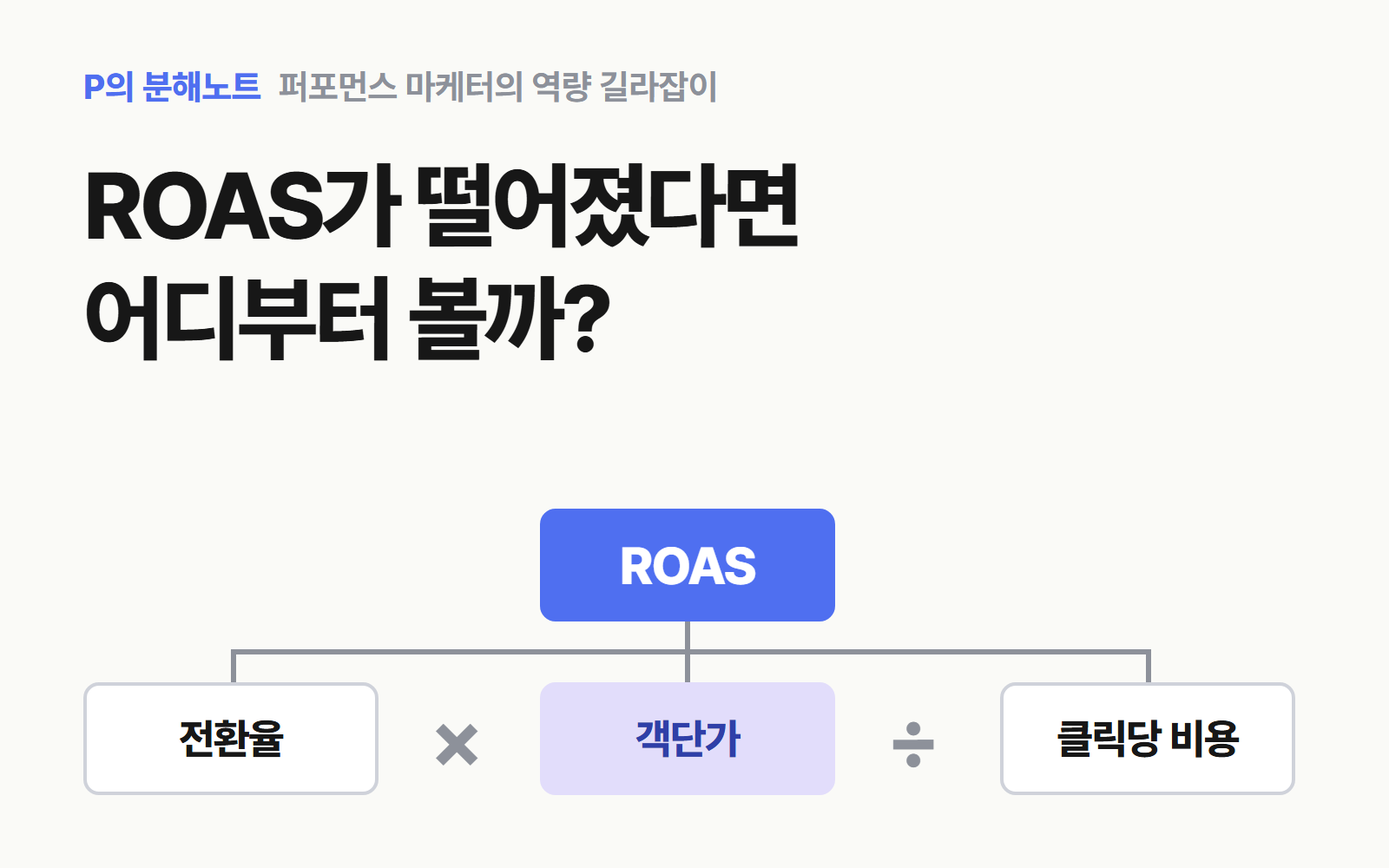
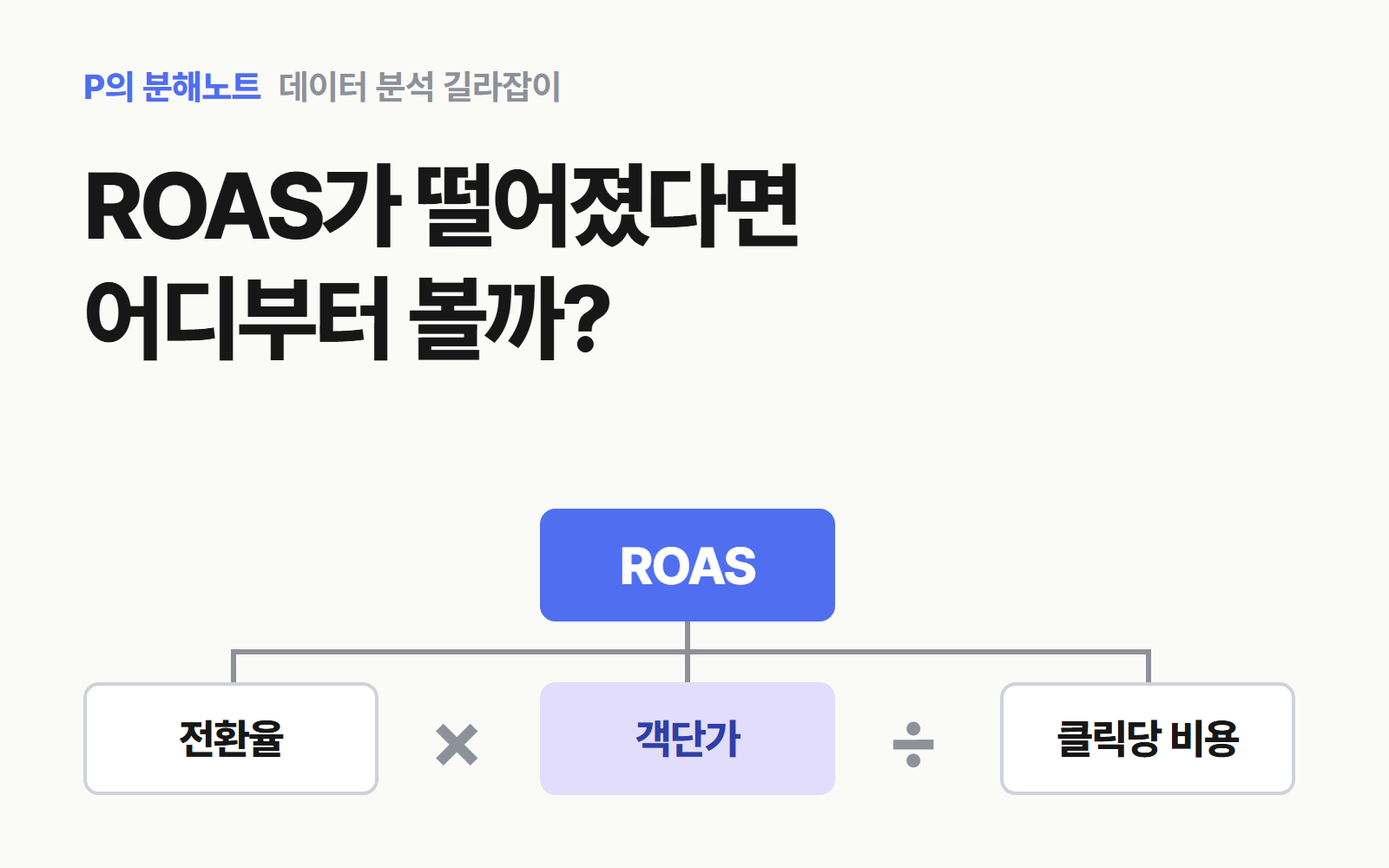
데이터 분석 길라잡이 그룹, 카테고리 그룹 표시, 분석 그림 추가
- 시리즈 s4 데이터 분석 길라잡이, 목록·카테고리 공통 SeriesGroups
- 데이터 분석 기본 편에 그림 3장, 중급·고급 초안(draft)과 그림 13장
- 데이터 분석 3편 표지

Changed region(s): [[0.1875, 0.062, 0.5312, 0.124]]

diff --git a/src/site.ts b/src/site.ts
@@ -30,7 +30,8 @@ export const SERIES_TITLE = '퍼포먼스 마케팅 쪼개 보기';
 export const SERIES = [
   { key: 's1', name: '퍼포먼스 마케팅 길라잡이', desc: '퍼포먼스 마케팅의 정의부터 인하우스와 대행사의 역할, AI 이후의 업무, 첫 실습까지 살펴봅니다.' },
   { key: 's2', name: '광고 시장과 성과 측정 길라잡이', desc: '광고 한 건이 어떻게 거래되는지, 광고와 측정 기술이 어떻게 바뀌었는지, GA4와 광고 매체의 전환 수가 왜 다른지 살펴봅니다.' },
-  { key: 's3', name: '퍼포먼스 마케터의 역량 길라잡이', desc: '데이터 분석, 매체 이해, 기획과 검증, 커뮤니케이션, 사업 이해를 기본 개념부터 실무 판단까지 쪼개 봅니다.' },
+  { key: 's3', name: '퍼포먼스 마케터의 역량 길라잡이', desc: '매체 이해, 기획과 검증, 커뮤니케이션, 사업 이해를 기본 개념부터 실무 판단까지 쪼개 봅니다.' },
+  { key: 's4', name: '데이터 분석 길라잡이', desc: '지표를 쪼개는 기본부터 퍼널·코호트 같은 중급, 광고의 증분을 재는 고급 분석까지 단계별로 살펴봅니다.' },
 ] as const;
 
 export const tagSlug = (t: string) => encodeURIComponent(t.replace(/\s+/g, '-'));

diff --git a/src/content/posts/marketer-data-analysis-advanced.md b/src/content/posts/marketer-data-analysis-advanced.md
@@ -1,0 +1,144 @@
+---
+title: "퍼포먼스 마케터의 데이터 분석 고급, 광고가 없었다면 어땠을지 재는 다섯 가지 방법"
+answer: "고급 데이터 분석은 '광고가 없었다면 어땠을까'에 답하는 단계다. 홀드아웃 실험, 지역 실험, 이중차분, 미디어 믹스 모델링, 고객 가치 예측을 쓰면 광고가 새로 만든 성과와 예산의 다음 한 걸음을 추정할 수 있다."
+cover: "/covers/marketer-data-analysis-advanced.png"
+date: 2026-11-19
+category: Marketing
+tags: ["P의 분해노트", "데이터 분석", "증분 측정", "MMM"]
+series: s4
+part: 3
+draft: true
+---
+
+<!--
+[초안 메모 — 발행 전 지울 것]
+- 데이터 분석 길라잡이 3부작 중 고급. 증분 측정 기본 개념은 GA4·매체 전환 수 글에 있으니 여기서는 방법별로 깊게
+- 각 분석법은 무엇 → 왜 → 언제 → 어떻게 → 그다음 순서
+- 도구 이름(Meridian, Robyn, GeoLift)은 발행 전 공식 페이지에서 현재 상태 다시 확인
+- 숫자는 모두 설명용 예시
+-->
+
+[중급 편](/posts/marketer-data-analysis-intermediate)까지는 이미 일어난 숫자를 잘 쪼개는 방법이었습니다. 하지만 쪼개기만으로는 답할 수 없는 질문이 있습니다. **"이 광고가 없었어도 그만큼 팔렸을까?"** 고급 분석은 이 질문, 즉 광고가 **새로 만든 몫(증분)**을 재는 방법들입니다.
+
+이 글도 같은 순서로 정리했습니다. **무엇 → 왜 → 언제 → 어떻게 → 그다음.**
+
+고급이라고 해서 모두 직접 계산할 필요는 없습니다. 퍼포먼스 마케터에게 더 중요한 건 **어떤 질문에 어떤 방법이 맞는지 고르고, 결과를 어디까지 믿을지 판단하는 힘**입니다.
+
+![고급 분석 다섯 가지와 각 방법이 답하는 질문](/posts/data-analysis/adv-summary.png)
+
+<!-- [P] 매체 화면 숫자와 실제 매출 사이에서 "이게 진짜 광고 덕분인가" 고민했던 장면. (광고주 가명) -->
+
+## 1. 홀드아웃 실험: 일부러 광고를 보여 주지 않는다
+
+- **무엇**: 광고를 볼 수 있는 사람 중 일부를 무작위로 떼어 **광고를 보여 주지 않고**, 본 쪽과 안 본 쪽의 구매를 비교하는 방법입니다. 매체의 전환 리프트(Conversion Lift) 같은 기능이 이 방식입니다.
+- **왜**: 리타겟팅처럼 "어차피 살 사람"에게 가는 광고는 ROAS가 높게 나옵니다. 본 쪽과 안 본 쪽을 비교해야 광고가 **더한** 구매만 남습니다.
+- **언제**: 리타겟팅·브랜드 검색처럼 효율이 너무 좋아 보이는 광고를 검증할 때, 큰 예산을 유지할지 정할 때.
+- **어떻게**: 매체가 사람을 무작위로 나누고 결과를 계산해 줍니다. 마케터가 정할 것은 기간, 떼어 둘 비율, 판정 지표입니다. 전환 수가 충분해야 결과가 나오므로, 작은 계정에서는 매체가 실험을 거절하거나 결과가 "판단 불가"로 나오기도 합니다.
+
+> **예시.** 리타겟팅 광고의 매체 ROAS는 800%였습니다. 홀드아웃 실험을 해 보니 광고를 본 쪽의 구매가 안 본 쪽보다 15% 많았고, 이 차이로 다시 계산한 **증분 ROAS는 약 120%**였습니다. 매체 화면의 800% 대부분은 광고가 없어도 일어났을 구매였던 셈입니다. (설명을 위한 예시 숫자)
+
+![광고 안 본 쪽 구매 100, 본 쪽 115. 매체 화면 ROAS 800%가 증분으로 다시 계산하면 약 120%](/posts/data-analysis/adv-holdout.png)
+
+- **그다음**: 증분 ROAS가 손익분기보다 낮다면 예산을 줄이거나, 대상(최근 방문자만, 장바구니 이탈자만)을 좁혀 다시 실험합니다. 결과는 **"매체 ROAS를 증분으로 바꾸는 비율"**로 기록해 두면 이후 보고에 계속 쓸 수 있습니다.
+
+## 2. 지역 실험: 사람이 아니라 지역을 나눈다
+
+- **무엇**: 비슷한 지역들을 둘로 나눠 **한쪽에서만 광고를 늘리거나 끄고**, 두 쪽의 매출 차이를 보는 방법입니다.
+- **왜**: 사람 단위로 나누기 어려운 광고(TV, 옥외, 여러 매체를 한꺼번에 바꾸는 경우)나 매체가 홀드아웃 기능을 주지 않을 때도 증분을 잴 수 있습니다. 매출을 주문 데이터에서 직접 보므로 매체 추적의 한계도 덜 받습니다.
+- **언제**: 새 매체를 시험할 때, 예산을 크게 늘리기 전, 여러 매체를 묶은 캠페인의 효과를 볼 때.
+- **어떻게**: 과거 매출 흐름이 비슷한 지역끼리 짝을 지어 나눕니다. 실험 기간 동안 광고 지역의 매출이 **"광고가 없었다면 이랬을 것"**이라는 예측선보다 얼마나 높았는지 봅니다. 메타가 공개한 GeoLift 같은 오픈소스 도구가 이 계산을 돕습니다.
+![광고 시작 뒤 실제 매출선이 광고가 없었다면의 예측선보다 높아진 만큼이 증분](/posts/data-analysis/adv-geo.png)
+
+- **그다음**: 증분이 확인되면 그 매체를 전국으로 넓히고, 확인되지 않으면 소재나 타깃을 바꿔 다시 시험하거나 예산을 다른 곳으로 돌립니다. 한국처럼 수도권 비중이 큰 시장에서는 **지역끼리 비슷하게 나누기가 어렵다**는 점을 결과 해석에 꼭 적어 둡니다.
+
+## 3. 이중차분: 전후 비교에 비교 대상을 붙인다
+
+- **무엇**: 광고를 바꾼 쪽의 **전후 변화**에서, 바꾸지 않은 쪽의 **같은 기간 변화**를 빼는 방법입니다.
+- **왜**: 단순 전후 비교는 시즌, 경기, 경쟁사 행사의 영향까지 광고 효과로 셉니다. 비교 대상의 변화를 빼면 "그 기간에 원래 일어났을 변화"를 걷어 낼 수 있습니다.
+- **언제**: 실험을 미리 설계하지 못했지만, 바꾼 쪽과 바꾸지 않은 쪽이 자연스럽게 나뉘어 있을 때. 예를 들어 한 지역에서만 행사를 했거나, 한 카테고리에만 광고를 늘렸을 때.
+- **어떻게**:
+
+| | 바꾸기 전 | 바꾼 뒤 | 변화 |
+|---|---|---|---|
+| 광고를 늘린 카테고리 | 100 | 130 | +30 |
+| 그대로 둔 카테고리 | 100 | 110 | +10 |
+| **광고로 늘었다고 볼 몫** | | | **+20** |
+
+(매출 지수, 설명을 위한 예시 숫자)
+
+전후만 보면 30이 늘었지만, 그대로 둔 쪽도 10이 늘었으니 광고 몫은 20으로 봅니다. 단, **두 쪽이 원래 비슷하게 움직여 왔다**는 전제가 필요합니다. 바꾸기 전 몇 주의 흐름을 같이 그려 확인합니다.
+
+![광고 늘린 쪽 100에서 130, 그대로 둔 쪽 100에서 110. 차이 20이 광고 몫](/posts/data-analysis/adv-did.png)
+
+- **그다음**: 결과를 "약 20% 증분, 단 두 카테고리의 시즌 차이는 통제하지 못함"처럼 **한계와 함께** 보고합니다. 중요한 결정이라면 다음번에는 지역 실험으로 다시 확인합니다.
+
+## 4. 미디어 믹스 모델링(MMM): 매체별 기여와 포화를 추정한다
+
+- **무엇**: 몇 년치 주간 매출과 매체별 광고비, 시즌, 가격, 행사 같은 요인을 함께 넣어 **"각 매체가 매출에 얼마나 기여했는지"**와 **"돈을 더 넣으면 얼마나 더 나올지"**를 통계 모델로 추정하는 방법입니다.
+- **왜**: 실험은 정확하지만 한 번에 한 질문만 답합니다. MMM은 모든 매체를 한꺼번에 보고, 쿠키나 클릭 추적 없이 **광고비와 매출만으로** 추정하므로 개인정보 제약을 덜 받습니다.
+- **언제**: 여러 매체에 큰 예산을 나눠 쓸 때, 연간·분기 예산을 짤 때, TV·옥외처럼 클릭이 없는 매체가 섞여 있을 때.
+- **어떻게**: 두 가지 개념이 핵심입니다.
+  - **잔상 효과**: 오늘 본 광고가 며칠~몇 주 뒤 구매에도 영향을 줍니다.
+  - **포화**: 같은 매체에 돈을 더 넣을수록 늘어나는 매출이 줄어듭니다. ([매체 이해 편](/posts/marketer-media-understanding)의 곡선)
+
+  구글의 Meridian, 메타의 Robyn 같은 오픈소스 도구가 있지만, 보통 **2년 이상의 주간 데이터**와 통계를 다룰 사람이 필요합니다.
+![매체별 포화 곡선. 검색은 일찍 평평해지고 소셜은 더 올라갈 여지가 있음](/posts/data-analysis/adv-mmm.png)
+
+- **그다음**: 매체별 **"다음 1억 원을 넣으면 늘어날 매출"** 곡선을 보고 예산을 다시 나눕니다. MMM 결과는 추정치이므로, 크게 바꿀 매체는 지역 실험으로 한 번 더 확인하는 식으로 **실험과 모델을 번갈아** 씁니다.
+
+## 5. 고객 가치 예측과 RFM: 앞으로 남길 돈으로 고객을 나눈다
+
+- **무엇**: 고객을 **최근 구매(Recency), 구매 빈도(Frequency), 구매 금액(Monetary)**으로 나누거나(RFM), 과거 행동으로 **앞으로의 구매 가치(예측 LTV)**를 추정하는 방법입니다.
+- **왜**: 모든 고객에게 같은 목표 CPA를 쓰면, 오래 남을 고객을 데려오는 캠페인이 손해처럼 보이고, 한 번 사고 끝날 고객에게 돈을 더 씁니다.
+- **언제**: 재구매가 중요한 업종, 신규 고객 목표 CPA를 고객 가치로 정하고 싶을 때, 매체에 가치 기반 입찰(구매 가치나 예측 가치를 넘기는 방식)을 쓰고 싶을 때.
+- **어떻게**: RFM은 스프레드시트로도 됩니다. 고객별 마지막 구매일, 구매 횟수, 총 구매 금액을 구해 각각 3~5등급으로 나누면 됩니다. 예측 LTV는 코호트 데이터([중급 편](/posts/marketer-data-analysis-intermediate)) 위에 통계 모델을 쓰는데, 처음에는 **"첫 구매 금액·상품별 평균 재구매율"** 정도의 간단한 규칙으로 시작해도 충분합니다.
+
+| 등급 예시 | 특징 | 광고에서 할 일 |
+|---|---|---|
+| 최근에 자주, 많이 산 고객 | 가장 가치가 큼 | 비슷한 사람 찾기(유사 타깃)의 씨앗으로 |
+| 예전엔 자주 샀지만 뜸해진 고객 | 이탈 위험 | 재방문 유도 메시지 |
+| 한 번 사고 끝난 고객 | 가치 낮음 | 광고비 줄이기, 리타겟팅 제외 검토 |
+
+![RFM 등급 예시: 최근·자주·많이 산 고객은 유사 타깃 씨앗, 뜸해진 고객은 재방문 메시지, 한 번 사고 끝난 고객은 광고비 줄이기](/posts/data-analysis/adv-rfm.png)
+
+- **그다음**: 등급별 가치를 매체에 넘기거나(가치 기반 입찰), 가치가 높은 고객과 닮은 사람을 찾게 해 **신규 유입의 질**을 올립니다. 목표 CPA를 고객 가치로 다시 계산하는 법은 [사업 이해 편](/posts/marketer-business-sense)에 있습니다.
+
+## 다섯 가지를 언제 꺼낼까?
+
+| 질문 | 맞는 방법 | 필요한 것 |
+|---|---|---|
+| 이 광고, 없어도 팔렸을까? | 1. 홀드아웃 실험 | 매체의 실험 기능, 충분한 전환 수 |
+| 새 매체, 전국으로 넓혀도 될까? | 2. 지역 실험 | 지역별 매출 데이터, 몇 주의 기간 |
+| 이미 바꿨는데, 효과가 있었나? | 3. 이중차분 | 바꾸지 않은 비교 대상 |
+| 내년 예산, 매체별로 어떻게 나눌까? | 4. MMM | 2년 이상 주간 데이터, 분석 인력 |
+| 어떤 고객에게 더 써야 할까? | 5. 고객 가치 예측·RFM | 고객별 주문 기록 |
+
+## 결과를 어디까지 믿을까?
+
+고급 분석일수록 결과가 그럴듯해 보여서 더 조심해야 합니다.
+
+- **추정은 범위로 말한다**: "증분 ROAS 120%"보다 "90~150% 사이로 추정"이 정직합니다.
+- **전제를 함께 적는다**: 지역이 비슷했는지, 그 기간에 다른 행사는 없었는지.
+- **방법끼리 맞춰 본다**: 실험과 MMM, 매체 숫자가 같은 방향을 가리키는지. 서로 크게 다르면 어느 한쪽의 전제가 틀렸을 가능성이 큽니다.
+
+이 판단을 결정하는 사람에게 전하는 법은 [커뮤니케이션 편](/posts/marketer-communication)의 "확실한 것과 모르는 것을 나눠 말하기"와 이어집니다.
+
+## 자주 하는 실수
+
+- **작은 계정에 큰 방법을 쓴다**: 전환이 적으면 실험도 모델도 "판단 불가"가 나옵니다. 먼저 중급 분석으로 충분한지 봅니다.
+- **한 번의 결과를 영원히 쓴다**: 시장과 소재가 바뀌면 증분도 바뀝니다. 중요한 광고는 분기나 반기마다 다시 확인합니다.
+- **모델 결과를 정답처럼 보고한다**: MMM은 추정입니다. 한계와 함께, 실험으로 확인할 계획을 같이 냅니다.
+
+## 혼자 연습하는 법
+
+공개 데이터로도 연습할 수 있습니다. Meridian과 Robyn은 **예제 데이터와 따라 하기 문서**를 함께 공개하고 있어, 코드를 실행해 보며 잔상 효과와 포화 곡선이 어떻게 나오는지 볼 수 있습니다. 코드가 부담스럽다면 위의 이중차분 표처럼 **"바꾼 쪽과 안 바꾼 쪽"**을 스스로 찾아, 자기 블로그나 가상 쇼핑몰 데이터로 계산해 보는 것부터 시작해도 좋습니다.
+
+<!-- [P] 증분을 확인하고 예산을 바꿨거나, 바꾸지 못했던 경험. (광고주 가명, 숫자는 %나 지수로) -->
+
+## 데이터 분석 길라잡이를 마치며
+
+기본은 **어디서 움직였는지**, 중급은 **무엇이 얼마나 움직였는지**, 고급은 **광고가 없었다면 어땠을지**를 묻습니다. 단계가 올라갈수록 계산보다 **질문을 고르고 결과의 한계를 말하는 힘**이 더 중요해집니다.
+
+처음부터 다시 보고 싶다면 여기서 시작하면 됩니다.
+
+→ [퍼포먼스 마케터의 데이터 분석 기본](/posts/marketer-data-analysis)

diff --git a/src/content/posts/marketer-data-analysis-intermediate.md b/src/content/posts/marketer-data-analysis-intermediate.md
@@ -1,0 +1,154 @@
+---
+title: "퍼포먼스 마케터의 데이터 분석 중급, 변화를 쪼개고 흐름을 따라가는 여섯 가지 방법"
+answer: "중급 데이터 분석은 숫자가 왜 움직였는지를 더 정확히 가르는 단계다. 변화량 분해, 비중과 성과 분리, 퍼널, 코호트, 평소 범위, 테스트 결과 해석을 쓰면 '무엇이 얼마나' 바뀌었는지까지 말할 수 있다."
+cover: "/covers/marketer-data-analysis-intermediate.png"
+date: 2026-11-19
+category: Marketing
+tags: ["P의 분해노트", "데이터 분석", "퍼널 분석", "코호트 분석"]
+series: s4
+part: 2
+draft: true
+---
+
+<!--
+[초안 메모 — 발행 전 지울 것]
+- 역량 길라잡이 / 데이터 분석 3부작 중 중급. 기본 편(marketer-data-analysis)의 심화 1~4를 발행할 때 이 글로 옮기고, 기본 편에는 링크만 남길 것
+- 각 분석법은 무엇 → 왜 → 언제 → 어떻게 → 그다음 순서
+- 숫자는 모두 설명용 예시
+-->
+
+[데이터 분석 기본 편](/posts/marketer-data-analysis)에서는 지표를 식으로 쪼개고, 나눠 보고, 비교하는 세 동작을 다뤘습니다. 기본만으로도 "어디에서 움직였는지"는 찾을 수 있습니다. 중급은 한 걸음 더 들어가 **"무엇이 얼마나 움직였는지", "시간이 지나며 어떻게 흘러가는지"**를 봅니다.
+
+이 글의 분석법은 모두 같은 순서로 정리했습니다.
+
+| 항목 | 답하는 질문 |
+|---|---|
+| 무엇 | 이 분석법은 무엇을 하는가 |
+| 왜 | 기본 분석만으로는 무엇이 부족한가 |
+| 언제 | 어떤 상황에서 꺼내 쓰는가 |
+| 어떻게 | 실제로 어떻게 계산하는가 |
+| 그다음 | 결과를 보고 무엇을 하는가 |
+
+![중급 분석 여섯 가지와 각 방법이 답하는 질문](/posts/data-analysis/mid-summary.png)
+
+<!-- [P] 기본 분석으로는 설명이 안 됐던 숫자를 만났던 장면 한두 문장. (광고주 가명) -->
+
+## 1. 변화량 분해: 원인마다 몫을 나눈다
+
+- **무엇**: 결과 지표의 변화를 구성 요소별로 "몇 %씩" 나눠 책임을 묻는 방법입니다.
+- **왜**: 기본 분석은 "클릭당 비용도 올랐고 전환율도 떨어졌다"까지 말합니다. 하지만 둘 다 움직였다면 **어느 쪽이 더 컸는지**를 알아야 먼저 고칠 곳이 정해집니다.
+- **언제**: CPA나 ROAS가 크게 움직였는데, 쪼갠 지표가 여러 개 같이 움직였을 때.
+- **어떻게**: CPA = 클릭당 비용 ÷ 전환율처럼 곱하고 나누는 식이라면, 각 항목이 몇 배 변했는지를 로그로 바꿔 비율을 나누면 됩니다. 스프레드시트의 `LN()` 함수면 충분합니다.
+
+> **예시.** CPA가 2만 원에서 2만 6천 원으로 30% 올랐습니다. 클릭당 비용은 500원에서 550원으로 10% 올랐고, 전환율은 2.5%에서 약 2.1%로 15% 남짓 떨어졌습니다. 로그로 나눠 보면 CPA 상승의 **약 3분의 1은 클릭당 비용, 3분의 2는 전환율** 때문입니다. (설명을 위한 예시 숫자)
+
+![CPA가 20,000원에서 26,000원으로 오른 몫 중 약 3분의 1은 클릭당 비용, 3분의 2는 전환율](/posts/data-analysis/mid-decomposition.png)
+
+- **그다음**: 몫이 큰 쪽부터 원인을 찾습니다. 위 예시라면 입찰이나 경쟁보다 **랜딩 페이지, 상품, 측정**을 먼저 봅니다.
+
+## 2. 비중 효과와 성과 효과: 평균이 움직인 이유를 가른다
+
+- **무엇**: 전체 평균의 변화를 **"섞인 비율이 바뀐 몫"**과 **"각 조각의 성과가 바뀐 몫"**으로 나누는 방법입니다.
+- **왜**: 캠페인 하나하나는 그대로인데 예산 비중만 바뀌어도 전체 CPA가 움직입니다. 이걸 성과 하락으로 보고하면 엉뚱한 캠페인을 고치게 됩니다.
+- **언제**: 예산을 옮긴 뒤, 새 캠페인을 켠 뒤, 시즌이 바뀌어 매체별 비중이 달라졌을 때.
+- **어떻게**: 두 기간의 조각별 비중과 성과를 표로 놓고, ① 성과는 지난 기간 그대로 두고 비중만 이번 기간으로 바꿔 계산한 값, ② 비중은 그대로 두고 성과만 바꿔 계산한 값을 각각 구합니다.
+
+| | 리타겟팅 (CPA 1만 원) | 신규 유입 (CPA 4만 원) | 전체 CPA |
+|---|---|---|---|
+| 1주차 | 600만 원 → 600건 | 400만 원 → 100건 | 약 14,300원 |
+| 2주차 | 400만 원 → 400건 | 600만 원 → 150건 | 약 18,200원 |
+
+두 캠페인의 CPA는 그대로이니 성과 효과는 0이고, 전체 CPA 상승 약 27%는 **전부 비중 효과**입니다. (설명을 위한 예시 숫자)
+
+![1주차 리타겟팅 60% 신규 40%에서 2주차 40% 대 60%로 비중이 바뀌어 전체 CPA가 약 14,300원에서 18,200원으로 오름](/posts/data-analysis/mid-mix.png)
+
+- **그다음**: 비중 효과가 크다면 "성과가 나빠졌다"가 아니라 **"신규 유입에 예산을 더 실은 결과"**로 보고합니다. 그 선택이 맞았는지는 신규 고객의 이후 구매(아래 4번 코호트)로 판단합니다.
+
+## 3. 퍼널 분석: 어느 단계에서 빠지는지 본다
+
+- **무엇**: 광고 클릭부터 구매까지를 단계로 나누고, **단계마다 몇 %가 다음으로 넘어가는지** 보는 방법입니다.
+- **왜**: 전환율 하나는 "사지 않았다"만 알려 줍니다. 상세 페이지에서 나갔는지, 장바구니까지 왔다가 결제에서 멈췄는지에 따라 고칠 곳이 완전히 다릅니다.
+- **언제**: 전환율이 떨어졌을 때, 랜딩 페이지를 바꾸기 전후, 새 매체의 유입 품질을 볼 때.
+- **어떻게**: GA4 탐색 보고서의 **유입경로 탐색**에서 단계를 정합니다.
+
+| 단계 | 이번 주 | 지난주 | 넘어가는 비율 변화 |
+|---|---|---|---|
+| 상세 페이지 조회 | 10,000 | 10,000 | |
+| 장바구니 담기 | 1,200 (12%) | 1,250 (12.5%) | 비슷함 |
+| 결제 시작 | 600 (50%) | 640 (51%) | 비슷함 |
+| 결제 완료 | 300 (50%) | 450 (70%) | **크게 떨어짐** |
+
+(설명을 위한 예시 숫자)
+
+![단계별로 넘어가는 비율. 결제 시작에서 결제 완료로 넘어가는 비율만 70%에서 50%로 떨어짐](/posts/data-analysis/mid-funnel.png)
+
+- **그다음**: 떨어진 단계가 곧 조사할 곳입니다. 위 예시라면 광고가 아니라 **결제 단계**(결제 수단 오류, 배송비 노출, 쿠폰 적용)를 확인합니다. 기기별로 다시 나눠 보면 원인이 더 좁혀집니다.
+
+## 4. 코호트 분석: 같은 때 들어온 고객을 따라간다
+
+- **무엇**: 같은 달(또는 같은 주)에 처음 들어온 고객을 한 묶음으로 보고, **시간이 지나며 얼마나 다시 오고 다시 사는지** 따라가는 방법입니다.
+- **왜**: 첫 구매 CPA만 보면 비싼 캠페인이 늘 지는 것처럼 보입니다. 그런데 그 캠페인이 데려온 고객이 오래 남는다면 이야기가 달라집니다.
+- **언제**: 신규 유입 캠페인을 평가할 때, 재구매가 중요한 업종(화장품, 식품, 구독)일 때, 목표 CPA를 고객 전체 가치로 정하고 싶을 때.
+- **어떻게**: GA4 탐색 보고서의 **동질 집단 탐색**이나, 주문 데이터를 첫 구매 월 기준으로 묶어 표를 만듭니다.
+
+| 첫 구매 월 | 1개월 뒤 재구매 | 2개월 뒤 | 3개월 뒤 |
+|---|---|---|---|
+| 8월 (할인 행사로 유입) | 8% | 4% | 3% |
+| 9월 (평소 광고로 유입) | 15% | 10% | 8% |
+
+(설명을 위한 예시 숫자)
+
+![첫 구매 월별 재구매율. 8월 할인 유입 고객 8, 4, 3%, 9월 평소 유입 고객 15, 10, 8%](/posts/data-analysis/mid-cohort.png)
+
+- **그다음**: 할인으로 들어온 고객이 덜 남는다면, 다음 행사에서는 **첫 구매 CPA 목표를 더 낮게** 잡거나 재구매 유도(메시지, 리타겟팅)를 함께 설계합니다. 고객 가치로 목표를 정하는 법은 [사업 이해 편](/posts/marketer-business-sense)에 있습니다.
+
+## 5. 평소 범위 정하기: 이상한 숫자를 먼저 알아챈다
+
+- **무엇**: 지표마다 **"평소라면 이 정도"**라는 범위를 정해 두고, 범위를 벗어날 때만 들여다보는 방법입니다.
+- **왜**: 숫자는 매일 조금씩 흔들립니다. 매일 모든 변화를 설명하려 하면 지치고, 정작 큰 이상을 놓칩니다.
+- **언제**: 매일 아침 계정을 점검할 때, 맡은 계정이 많을 때, 자동 알림을 만들 때.
+- **어떻게**: 같은 요일끼리 최근 4주 평균과 흔들림 폭을 구합니다. 예를 들어 화요일 전환이 평소 40~55건이라면, 31건은 범위 밖이니 조사하고 48건은 그냥 넘어갑니다. 스프레드시트에서 `AVERAGE()`와 `STDEV()`로 평균 ± 2배 표준편차를 범위로 쓰는 경우가 많습니다.
+![최근 12주 화요일 전환 수. 평소 범위 40~55건 안에서 움직이다 이번 주 31건으로 범위를 벗어남](/posts/data-analysis/mid-normal-range.png)
+
+- **그다음**: 범위를 벗어나면 [기본 편](/posts/marketer-data-analysis)의 원인 찾기 다섯 단계로 들어갑니다. 행사·공휴일처럼 이유가 분명한 날은 범위 계산에서 빼 둡니다.
+
+## 6. 테스트 결과 읽기: 차이가 진짜인지 가른다
+
+- **무엇**: A/B 테스트 결과에서 **"차이가 우연으로도 생길 수 있는 크기인지"**를 확인하는 방법입니다.
+- **왜**: 전환이 20건과 25건이면 B가 나아 보이지만, 이 정도 건수에서는 우연히도 이만큼 차이가 납니다. 우연을 승리로 읽으면 다음 결정이 틀어집니다.
+- **언제**: 소재·랜딩 페이지·입찰 전략을 나눠 비교한 뒤 승자를 정할 때.
+- **어떻게**: 차이를 숫자 하나가 아니라 **범위**로 봅니다. "B가 A보다 전환율이 10% 높다"가 아니라 "B가 A보다 −5%에서 +25% 사이로 높을 가능성이 크다"처럼요. 이 범위에 0이 들어 있으면 아직 이겼다고 말할 수 없습니다. 매체의 실험 기능은 이 범위나 신뢰 수준을 함께 보여 줍니다.
+![테스트 1은 범위가 0을 걸쳐 보류, 테스트 2는 범위가 모두 0보다 커서 채택](/posts/data-analysis/mid-test-range.png)
+
+- **그다음**: 범위에 0이 없으면 채택, 0이 있으면 **보류하고 기간을 늘리거나 더 자주 일어나는 지표(클릭, 장바구니)로 다시 비교**합니다. 테스트 설계는 [기획과 검증 편](/posts/marketing-hypothesis-testing)에서 다뤘습니다.
+
+## 여섯 가지를 언제 꺼낼까?
+
+| 이런 질문이 생기면 | 꺼낼 분석법 |
+|---|---|
+| 여러 지표가 같이 움직였다, 무엇이 더 컸나? | 1. 변화량 분해 |
+| 캠페인은 그대로인데 전체가 나빠졌다 | 2. 비중 효과와 성과 효과 |
+| 사긴 사는데 어디서 많이 빠지나? | 3. 퍼널 분석 |
+| 비싸게 데려온 고객, 남긴 하나? | 4. 코호트 분석 |
+| 오늘 숫자, 신경 써야 하나? | 5. 평소 범위 |
+| 테스트에서 이긴 게 맞나? | 6. 테스트 결과 읽기 |
+
+## 자주 하는 실수
+
+- **분해 결과를 원인으로 착각한다**: 변화량 분해는 "어느 항목이 움직였나"까지 알려 줍니다. 그 항목이 **왜** 움직였는지는 따로 확인해야 합니다.
+- **퍼널 단계를 너무 잘게 나눈다**: 단계가 많으면 단계마다 숫자가 작아져 흔들림만 커집니다. 4~5단계면 충분합니다.
+- **코호트를 너무 일찍 판단한다**: 재구매 주기가 두 달인 상품을 한 달 만에 판단하면 늘 나빠 보입니다.
+
+## 혼자 연습하는 법
+
+GA4 데모 계정에서 **유입경로 탐색**으로 "상품 조회 → 장바구니 → 결제 시작 → 구매" 퍼널을 만들고, 기기별로 나눠 어느 단계 차이가 가장 큰지 찾아봅니다. 같은 계정에서 **동질 집단 탐색**으로 첫 방문 주별 재방문율도 그려 봅니다.
+
+<!-- [P] 중급 분석으로 결론이 바뀌었던 경험 하나. (광고주 가명, 숫자는 %나 지수로) -->
+
+## 정리하면
+
+중급 분석은 **변화를 몫으로 나누고(1·2), 단계와 시간을 따라가고(3·4), 신경 쓸 변화를 고르고(5·6)** 하는 일입니다. 여기까지 오면 "어디서"를 넘어 "무엇이 얼마나"를 말할 수 있습니다.
+
+다음 편에서는 **"광고가 없었다면 어땠을까?"**에 답하는 고급 분석을 다룹니다.
+
+→ [퍼포먼스 마케터의 데이터 분석 고급](/posts/marketer-data-analysis-advanced)

diff --git a/src/content/posts/marketer-data-analysis.md b/src/content/posts/marketer-data-analysis.md
@@ -5,7 +5,7 @@ cover: "/covers/marketer-data-analysis.png"
 date: 2026-11-19
 category: Marketing
 tags: ["P의 분해노트", "퍼포먼스 마케터", "데이터 분석"]
-series: s3
+series: s4
 part: 1
 draft: false
 ---
@@ -36,6 +36,8 @@ draft: false
 | 광고비 대비 매출 (ROAS) | 전환율 × 객단가 ÷ 클릭당 비용 | 덜 사나, 싸게 사나, 클릭이 비싸졌나 |
 
 > **예시 상황.** ROAS가 400%에서 300%로 떨어졌습니다. 쪼개 보면 클릭당 비용 500원, 전환율 2%는 그대로인데, 객단가가 10만 원에서 7만 5천 원으로 내려갔습니다. 광고가 나빠진 게 아니라 **싼 상품이 많이 팔린 것**입니다. 이번 주에 할인 행사가 있었는지, 저가 상품 광고에 예산이 몰렸는지 확인할 차례입니다. (설명을 위한 예시 숫자)
+
+![ROAS를 전환율, 객단가, 클릭당 비용으로 쪼갠 그림. 객단가만 10만 원에서 7만 5천 원으로 내려가 ROAS가 400%에서 300%가 됐다](/posts/data-analysis/basic-metric-tree.png)
 
 ## 기본 2. 기준별로 나눠 본다
 
@@ -70,6 +72,8 @@ draft: false
 
 숫자가 크게 움직였을 때는 이 순서로 봅니다.
 
+![원인을 찾는 다섯 단계: 숫자가 진짜인가, 식의 어느 항이 움직였나, 어디에서, 언제부터, 원인이 맞는지 확인](/posts/data-analysis/basic-five-steps.png)
+
 1. **숫자가 진짜인가**: 전환 태그가 빠지거나 중복되지 않았는지, 전환 지연 때문은 아닌지 먼저 확인합니다. 측정이 틀렸다면 뒤의 분석은 전부 헛수고입니다.
 2. **식의 어느 항이 움직였나**: 클릭당 비용인지, 전환율인지, 객단가인지.
 3. **어디에서 움직였나**: 매체, 기기, 소재, 고객 유형으로 나눠 변화가 몰린 조각을 찾습니다.
@@ -88,6 +92,8 @@ draft: false
 | 2주차 | 400만 원 → 400건 | 600만 원 → 150건 | 약 18,200원 |
 
 두 캠페인의 CPA는 그대로인데 전체 CPA는 약 27% 올랐습니다. 신규 유입에 예산을 더 실었기 때문입니다. (설명을 위한 예시 숫자)
+
+![1주차 리타겟팅 60% 신규 40%에서 2주차 40% 대 60%로 비중이 바뀌어 전체 CPA가 약 14,300원에서 18,200원으로 오름](/posts/data-analysis/mid-mix.png)
 
 이걸 모르고 "성과가 나빠졌다"고 보고하면 잘못된 결정이 나옵니다. 평균이 움직이면 **조각별 숫자가 움직였는지, 조각의 비중이 움직였는지**부터 나눠 봅니다.
 

diff --git a/src/content/posts/marketer-communication.md b/src/content/posts/marketer-communication.md
@@ -6,7 +6,7 @@ date: 2026-11-19
 category: Marketing
 tags: ["P의 분해노트", "퍼포먼스 마케터", "커뮤니케이션", "리포트"]
 series: s3
-part: 4
+part: 3
 draft: false
 ---
 

diff --git a/src/content/posts/marketer-business-sense.md b/src/content/posts/marketer-business-sense.md
@@ -6,7 +6,7 @@ date: 2026-11-19
 category: Marketing
 tags: ["P의 분해노트", "퍼포먼스 마케터", "광고 지표", "ROAS"]
 series: s3
-part: 5
+part: 4
 draft: false
 ---
 

diff --git a/src/content/posts/marketer-media-understanding.md b/src/content/posts/marketer-media-understanding.md
@@ -6,7 +6,7 @@ date: 2026-11-19
 category: Marketing
 tags: ["P의 분해노트", "퍼포먼스 마케터", "광고 매체"]
 series: s3
-part: 2
+part: 1
 draft: false
 ---
 

diff --git a/src/content/posts/marketing-hypothesis-testing.md b/src/content/posts/marketing-hypothesis-testing.md
@@ -6,7 +6,7 @@ date: 2026-11-19
 category: Marketing
 tags: ["P의 분해노트", "가설", "AB 테스트", "성과 측정"]
 series: s3
-part: 3
+part: 2
 draft: false
 ---
 
